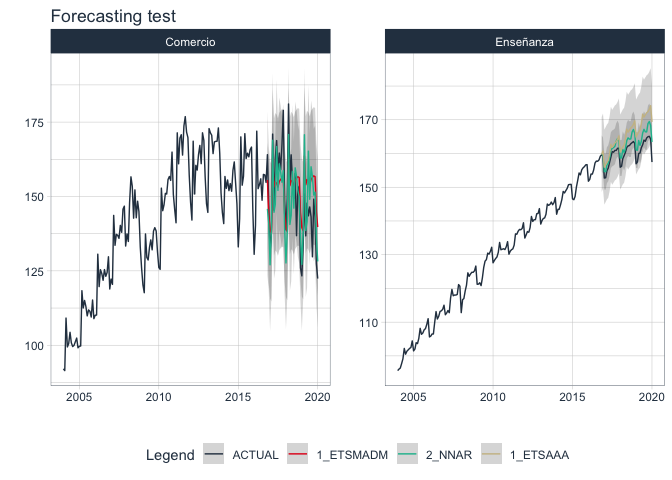
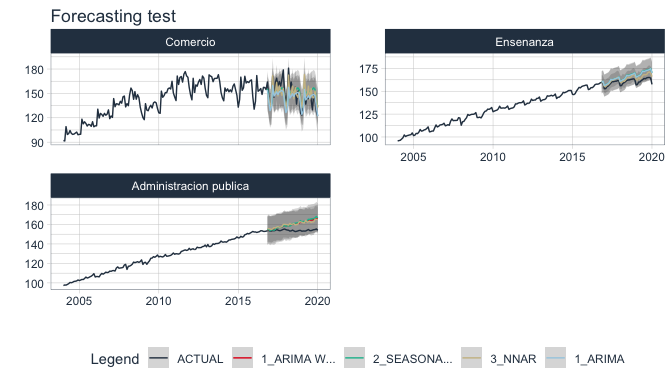
Readme plots

diff --git a/README.md b/README.md
@@ -52,28 +52,28 @@ devtools::install_github("rafzamb/sknifedatar")
 #>    sector                           nested_column     
 #>    <chr>                            <list>            
 #>  1 Comercio                         <tibble [193 × 2]>
-#>  2 Enseñanza                        <tibble [193 × 2]>
-#>  3 Administración pública           <tibble [193 × 2]>
+#>  2 Ensenanza                        <tibble [193 × 2]>
+#>  3 Administracion publica           <tibble [193 × 2]>
 #>  4 Transporte y comunicaciones      <tibble [193 × 2]>
 #>  5 Servicios sociales/Salud         <tibble [193 × 2]>
 #>  6 Impuestos netos                  <tibble [193 × 2]>
 #>  7 Sector financiero                <tibble [193 × 2]>
-#>  8 Minería                          <tibble [193 × 2]>
-#>  9 Agro/Ganadería/Caza/Silvicultura <tibble [193 × 2]>
+#>  8 Mineria                          <tibble [193 × 2]>
+#>  9 Agro/Ganaderia/Caza/Silvicultura <tibble [193 × 2]>
 #> 10 Electricidad/Gas/Agua            <tibble [193 × 2]>
 #> 11 Hoteles/Restaurantes             <tibble [193 × 2]>
 #> 12 Inmobiliarias                    <tibble [193 × 2]>
 #> 13 Otras actividades                <tibble [193 × 2]>
 #> 14 Pesca                            <tibble [193 × 2]>
 #> 15 Industria manufacturera          <tibble [193 × 2]>
-#> 16 Construcción                     <tibble [193 × 2]>
+#> 16 Construccion                     <tibble [193 × 2]>
 ```
 
 ### Recipes
 
 ``` r
  recipe_1 = recipe(value ~ ., data = emae_series %>% select(-sector)) %>%
- step_date(date, features = c("month", "quarter", "year"), ordinal = TRUE)
+  step_date(date, features = c("month", "quarter", "year"), ordinal = TRUE)
 ```
 
 ### Models
@@ -113,7 +113,7 @@ devtools::install_github("rafzamb/sknifedatar")
 #>   sector       nested_column   m_auto_arima m_stlm_arima m_nnetar nested_model  
 #>   <chr>        <list>          <list>       <list>       <list>   <list>        
 #> 1 Comercio     <tibble [193 ×… <fit[+]>     <fit[+]>     <workfl… <model_time […
-#> 2 Enseñanza    <tibble [193 ×… <fit[+]>     <fit[+]>     <workfl… <model_time […
+#> 2 Ensenanza    <tibble [193 ×… <fit[+]>     <fit[+]>     <workfl… <model_time […
 #> 3 Administrac… <tibble [193 ×… <fit[+]>     <fit[+]>     <workfl… <model_time […
 #> # … with 1 more variable: calibration <list>
 #> 
@@ -123,13 +123,13 @@ devtools::install_github("rafzamb/sknifedatar")
 #>   <chr>           <int> <chr>        <chr> <dbl> <dbl>  <dbl> <dbl> <dbl>  <dbl>
 #> 1 Comercio            1 ARIMA(0,1,1… Test   8.54  5.55  0.656  5.69 10.7  0.588 
 #> 2 Comercio            2 SEASONAL DE… Test   9.33  6.28  0.717  6.24 11.2  0.415 
-#> 3 Comercio            3 NNAR(1,1,10… Test   9.25  6.12  0.711  6.22 11.0  0.519 
-#> 4 Enseñanza           1 ARIMA(1,1,1… Test   5.38  3.35  3.90   3.28  6.00 0.730 
-#> 5 Enseñanza           2 SEASONAL DE… Test   5.56  3.46  4.03   3.38  6.21 0.726 
-#> 6 Enseñanza           3 NNAR(1,1,10… Test   3.36  2.09  2.43   2.06  3.72 0.852 
+#> 3 Comercio            3 NNAR(1,1,10… Test   9.04  6.12  0.694  6.08 10.8  0.450 
+#> 4 Ensenanza           1 ARIMA(1,1,1… Test   5.38  3.35  3.90   3.28  6.00 0.730 
+#> 5 Ensenanza           2 SEASONAL DE… Test   5.56  3.46  4.03   3.38  6.21 0.726 
+#> 6 Ensenanza           3 NNAR(1,1,10… Test   3.31  2.06  2.40   2.03  3.69 0.843 
 #> 7 Administra…         1 ARIMA(0,1,1… Test   6.10  3.96 12.6    3.86  7.05 0.0384
 #> 8 Administra…         2 SEASONAL DE… Test   6.45  4.19 13.4    4.07  7.61 0.0480
-#> 9 Administra…         3 NNAR(1,1,10… Test   6.11  3.97 12.7    3.88  6.73 0.0867
+#> 9 Administra…         3 NNAR(1,1,10… Test   6.23  4.05 12.9    3.95  6.84 0.0609
 ```
 
 ### modeltime\_multiforecast
@@ -171,7 +171,7 @@ best_model_emae
 #>   sector       nested_column   m_auto_arima m_stlm_arima m_nnetar nested_model  
 #>   <chr>        <list>          <list>       <list>       <list>   <list>        
 #> 1 Comercio     <tibble [193 ×… <fit[+]>     <fit[+]>     <workfl… <model_time […
-#> 2 Enseñanza    <tibble [193 ×… <fit[+]>     <fit[+]>     <workfl… <model_time […
+#> 2 Ensenanza    <tibble [193 ×… <fit[+]>     <fit[+]>     <workfl… <model_time […
 #> 3 Administrac… <tibble [193 ×… <fit[+]>     <fit[+]>     <workfl… <model_time […
 #> # … with 2 more variables: calibration <list>, best_model <list>
 ```
@@ -189,7 +189,7 @@ model_refit_emae
 #>   sector       nested_column   m_auto_arima m_stlm_arima m_nnetar nested_model  
 #>   <chr>        <list>          <list>       <list>       <list>   <list>        
 #> 1 Comercio     <tibble [193 ×… <fit[+]>     <fit[+]>     <workfl… <model_time […
-#> 2 Enseñanza    <tibble [193 ×… <fit[+]>     <fit[+]>     <workfl… <model_time […
+#> 2 Ensenanza    <tibble [193 ×… <fit[+]>     <fit[+]>     <workfl… <model_time […
 #> 3 Administrac… <tibble [193 ×… <fit[+]>     <fit[+]>     <workfl… <model_time […
 #> # … with 2 more variables: calibration <list>, best_model <list>
 ```
